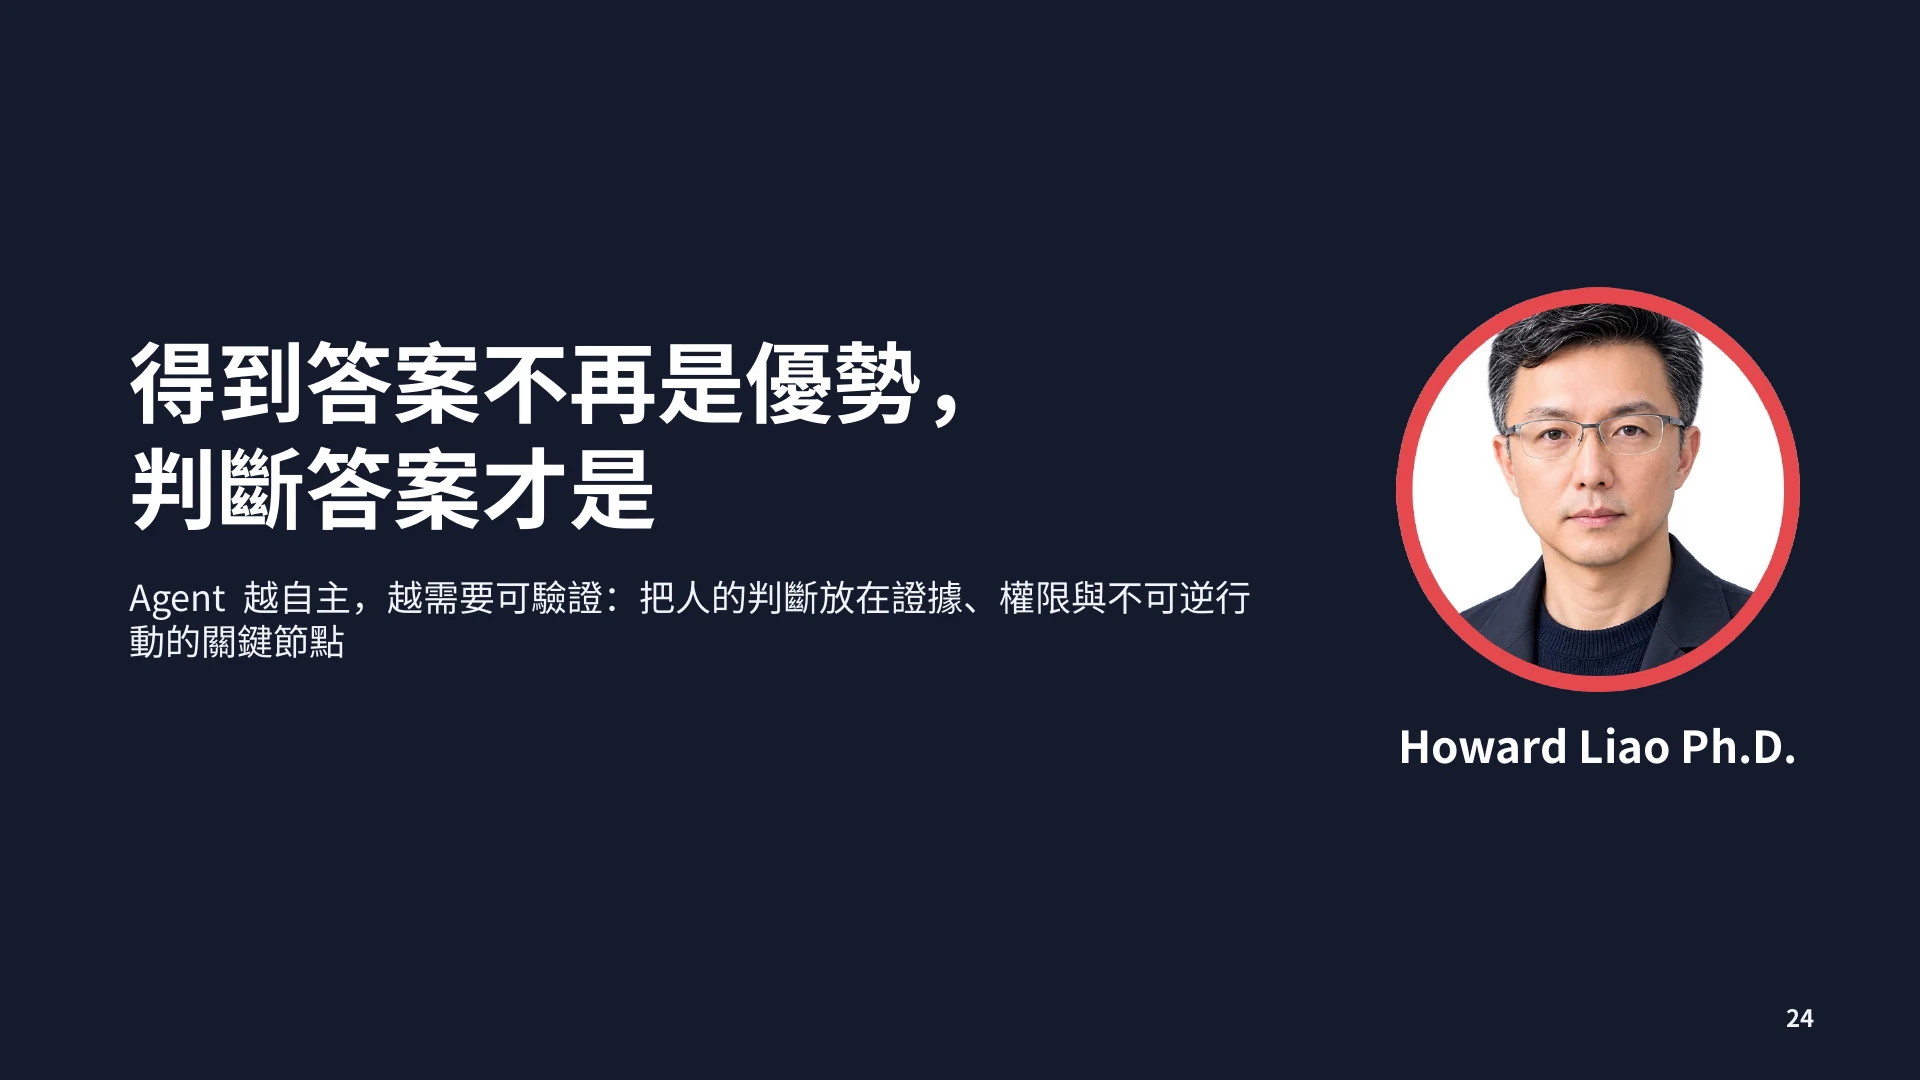
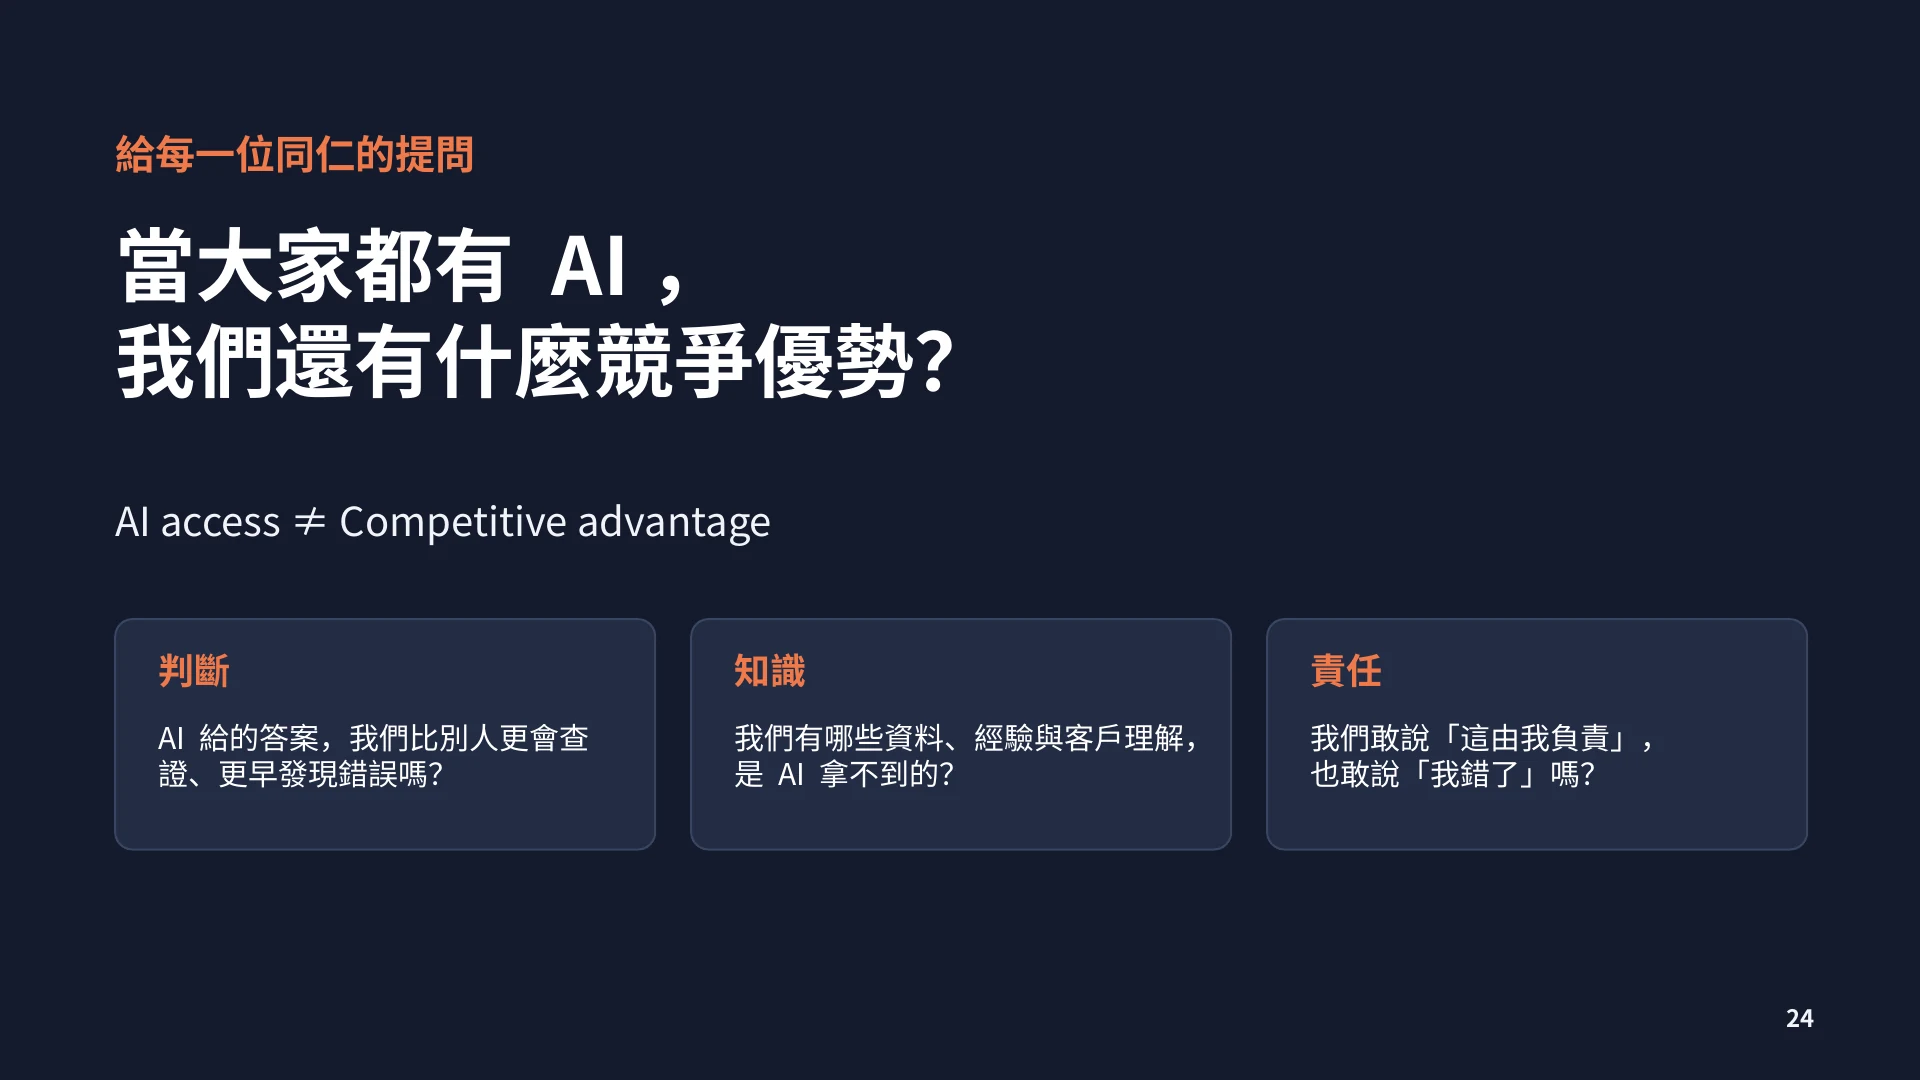
feat: add 004 question-to-colleagues slide (25 pages)

diff --git a/004/index.html b/004/index.html
@@ -4,7 +4,7 @@
 <meta charset="utf-8">
 <meta name="viewport" content="width=device-width, initial-scale=1, viewport-fit=cover">
 <title>AI 判斷力 × AI Agent 架構性缺陷｜Howard Liao Ph.D.</title>
-<meta name="description" content="Howard Liao Ph.D.｜當 AI 的答案看起來都對，員工判斷得出錯誤嗎？AI 判斷力培養指南 × AI Agent 五大架構性缺陷，24 頁線上簡報。">
+<meta name="description" content="Howard Liao Ph.D.｜當 AI 的答案看起來都對，員工判斷得出錯誤嗎？AI 判斷力培養指南 × AI Agent 五大架構性缺陷，25 頁線上簡報。">
 <meta name="theme-color" content="#141B2D">
 <link rel="icon" href="assets/howard-liao-portrait-circle.png">
 <style>
@@ -65,14 +65,14 @@
   <footer>
     <button class="btn" id="gridBtn">總覽</button>
     <div class="bar"><i id="bar"></i></div>
-    <div class="count" id="count">1 / 24</div>
+    <div class="count" id="count">1 / 25</div>
     <button class="btn" id="fsBtn">全螢幕</button>
   </footer>
 </div>
 <div class="grid" id="grid"><button class="btn close" id="gridClose">關閉</button><div class="wrap" id="gridWrap"></div></div>
 <script>
 (() => {
-  const N = 24, V = "20261103b", pad = (n) => String(n).padStart(2, "0");
+  const N = 25, V = "20261103c", pad = (n) => String(n).padStart(2, "0");
   const frame = document.getElementById("frame"), bar = document.getElementById("bar"), count = document.getElementById("count");
   const slides = [];
   for (let i = 1; i <= N; i++) {

diff --git a/index.html b/index.html
@@ -382,7 +382,7 @@
       </div>
 
       <div class="item-content">
-        <div class="item-badge">★ 24 頁線上簡報 ｜ AI 判斷力 × AI Agent 架構性缺陷</div>
+        <div class="item-badge">★ 25 頁線上簡報 ｜ AI 判斷力 × AI Agent 架構性缺陷</div>
         <h2 class="item-title">當 AI 的答案看起來都對，員工判斷得出錯誤嗎？</h2>
         <p class="item-desc">
           以金字塔結構展開：AI Agent 五大架構性缺陷說明錯誤為何是結構性的；Approve／Correct／Escalate 三種決定與 4E 框架讓判斷力方法化；再以知識、資料、流程、權責建立 AI Ready 工作流程。
@@ -397,7 +397,7 @@
 
       <div class="item-actions">
         <a href="004/" class="btn-item primary">
-          <span>🚀</span> <span>線上觀看 24 頁簡報</span>
+          <span>🚀</span> <span>線上觀看 25 頁簡報</span>
         </a>
       </div>
     </div>

diff --git a/README.md b/README.md
@@ -25,7 +25,7 @@ Seminar/
 │   └── assets/                                                     # 報告人肖像與圖騰資產
 │
 ├── 004/                                                            # 【004 專題】AI 判斷力 × AI Agent 五大架構性缺陷
-│   ├── index.html                                                  # 24 頁線上簡報播放器（僅供線上觀看，不提供下載）
+│   ├── index.html                                                  # 25 頁線上簡報播放器（僅供線上觀看，不提供下載）
 │   ├── slides/                                                     # 投影片影像
 │   └── assets/                                                     # 報告人肖像
 │
@@ -50,5 +50,5 @@ Seminar/
 
 - **報告人**：Howard Liao Ph.D.
 - **展示入口**：[https://howardliao.github.io/Seminar/004/](https://howardliao.github.io/Seminar/004/)
-- **形式**：24 頁線上簡報，僅供線上觀看（不提供 PDF／PPTX 下載）
+- **形式**：25 頁線上簡報，僅供線上觀看（不提供 PDF／PPTX 下載）
 - **核心內容**：金字塔結構——AI Agent 五大架構性缺陷（長上下文退化、記憶污染、自我修正失效、目標不對齊、交接失真）、Approve／Correct／Escalate 三種決定、4E Framework、知識／資料／流程／權責與情境演練。
